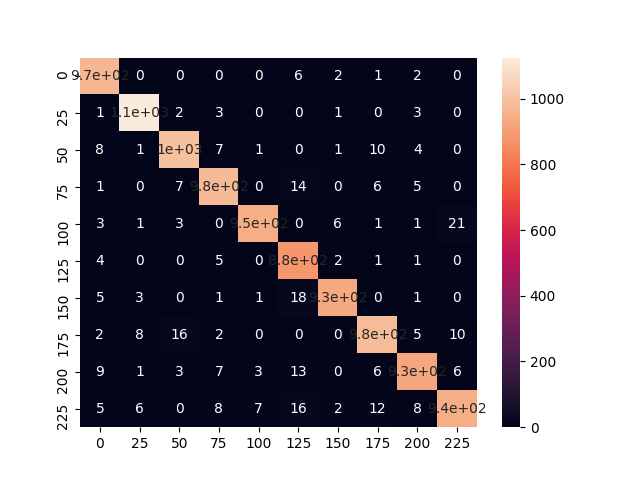
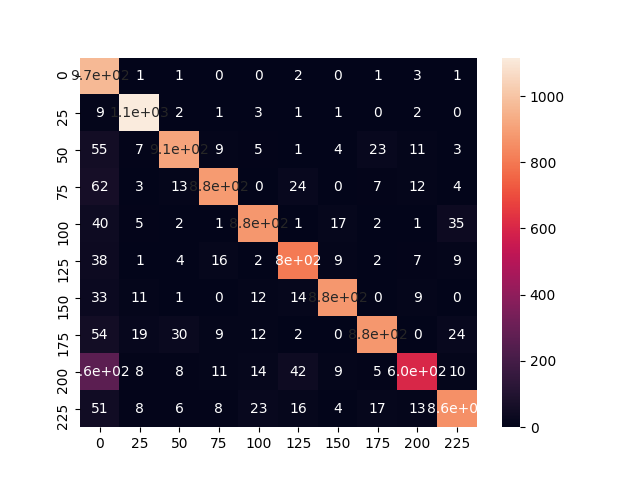
add bias, enlarge MNIST CNN

diff --git a/main.py b/main.py
@@ -26,7 +26,6 @@ import predict
 max_accuracy = 0
 min_loss = 1000
 
-
 def train(network, trainloader, opti, epoch, states, network_config, layers_config, err):
     global max_accuracy
     global min_loss
@@ -104,7 +103,8 @@ def train(network, trainloader, opti, epoch, states, network_config, layers_conf
         states.training.correctSamples = correct
         states.training.numSamples = total
         states.training.lossSum += loss.cpu().data.item() 
-        states.print(epoch, batch_idx, (datetime.now() - time).total_seconds())
+        states.print(epoch, batch_idx, (datetime.now() -\
+            time).total_seconds(), opti.param_groups[0]['lr'])
 
     total_accuracy = correct / total
     total_loss = train_loss / total
@@ -197,7 +197,7 @@ if __name__ == '__main__':
     
     # Check whether a GPU is available
     if torch.cuda.is_available():
-        device = 2 #torch.device("cuda")
+        device = 3#torch.device("cuda")
         cuda.init()
         c_device = aboutCudaDevices()
         print(c_device.info())
@@ -234,18 +234,22 @@ if __name__ == '__main__':
     
     error = loss_f.SpikeLoss(params['Network']).to(device)
     
-    optimizer = torch.optim.AdamW(net.get_parameters(), lr=params['Network']['lr'], betas=(0.9, 0.999))
-    
+    #optimizer = torch.optim.AdamW(net.get_parameters(), lr=params['Network']['lr'], betas=(0.9, 0.999))
+    optimizer = torch.optim.SGD(net.get_parameters(),\
+            lr=params['Network']['lr']*100, momentum=0.9, weight_decay=0.001)
     best_acc = 0
     best_epoch = 0
     
     l_states = learningStats()
     early_stopping = EarlyStopping()
-    
+    my_lr_scheduler =\
+        torch.optim.lr_scheduler.ExponentialLR(optimizer=optimizer,\
+        gamma=0.98)
     for e in range(params['Network']['epochs']):
         l_states.training.reset()
         train(net, train_loader, optimizer, e, l_states, params['Network'], params['Layers'], error)
         l_states.training.update()
+        my_lr_scheduler.step()
         l_states.testing.reset()
         test(net, test_loader, e, l_states, params['Network'], params['Layers'], early_stopping)
         l_states.testing.update()

diff --git a/layers/conv.py b/layers/conv.py
@@ -71,10 +71,11 @@ class ConvLayer(nn.Conv3d):
             raise Exception('dilation can be either int or tuple of size 2. It was: {}'.format(dilation.shape))
 
         super(ConvLayer, self).__init__(in_features, out_features, kernel, stride, padding, dilation, groups,
-                                        bias=False)
-        # nn.init.kaiming_normal_(self.weight)
+                                        bias=True)
+        nn.init.normal_(self.weight)
+        nn.init.zeros_(self.bias)
         self.weight = torch.nn.Parameter(weight_scale * self.weight, requires_grad=True)
-
+        self.bias = torch.nn.Parameter(weight_scale * self.bias, requires_grad=True)
         self.in_shape = in_shape
         self.out_shape = [out_features, int((in_shape[1]+2*padding[0]-kernel[0])/stride[0]+1),
                           int((in_shape[2]+2*padding[1]-kernel[1])/stride[1]+1)]
@@ -89,7 +90,7 @@ class ConvLayer(nn.Conv3d):
                         self.stride, self.padding, self.dilation, self.groups)
 
     def get_parameters(self):
-        return self.weight
+        return [self.weight, self.bias]
 
     def forward_pass(self, x, epoch):
         y = self.forward(x)
@@ -104,5 +105,8 @@ class ConvLayer(nn.Conv3d):
 
     def weight_clipper(self):
         w = self.weight.data
+        b = self.bias.data
         w = w.clamp(-4, 4)
+        b = b.clamp(-4, 4)
         self.weight.data = w
+        self.bias.data = b

diff --git a/utils.py b/utils.py
@@ -173,7 +173,7 @@ class learningStats():
         self.testing.update()
         self.testing.reset()
 
-    def print(self, epoch, iter=None, timeElapsed=None, header=None, footer=None):
+    def print(self, epoch, iter=None, timeElapsed=None, lr=None, header=None, footer=None):
         '''
         Prints the available learning statistics from the current session on the console.
         For Linux systems, prints the data on same terminal space (might not work properly on other systems).
@@ -205,6 +205,7 @@ class learningStats():
         epochStr = 'Epoch : %10d' % (epoch)
         iterStr = '' if iter is None else '(i = %7d)' % (iter)
         profileStr = '' if timeElapsed is None else ', %12.4f s elapsed' % timeElapsed
+        lrStr = '' if lr is None else '    LearningRate : %3.8f' % lr
         if glv.accuracy_stat_dict is None:
             accuracyStr = 'No Acc data.'
         else:
@@ -219,7 +220,7 @@ class learningStats():
                 print('\033[2K' + str(h))
                 self.linesPrinted += 1
 
-        print(epochStr + iterStr + profileStr)
+        print(epochStr + iterStr + profileStr + lrStr)
         print(self.training.displayString())
         print(self.testing.displayString())
         print(accuracyStr)

diff --git a/functions/TSSLBP.py b/functions/TSSLBP.py
@@ -109,19 +109,19 @@ class PSP_spike_large_batch(torch.autograd.Function):
 
         grad_a_surrogate = torch.einsum('...ij, ...j -> ...i', syn, grad_delta)
 
-        a = 0.2
+        a = 0.3
         f = torch.clamp((-1 * u + threshold) / a, -8, 8)
         sig = 1 / (1 + torch.exp(f))
         sig_grad = sig * (1 - sig) / a
         grad_a_surrogate = grad_a_surrogate * sig_grad
-        inter_u = 0.8 * ((1-outputs) - sig_grad * u)
+        inter_u = 0.8 * ((1-outputs))# - sig_grad * u)
        #        grad = grad_a_surrogate * sig_grad
         if torch.sum(outputs)/(shape[0] * shape[1] * shape[2] * shape[3] *\
                 shape[4]) > 0.1:
             grad = (grad_a_surrogate + grad * sig) * add_or_remove\
                     + grad * (1 - add_or_remove)
-            for t in range(shape[4]-2,-1,-1):
-                grad[..., t] += grad[..., t+1] * inter_u[..., t]
+            #for t in range(shape[4]-2,-1,-1):
+            #    grad[..., t] += grad[..., t+1] * inter_u[..., t]
         else:
             grad = grad_a_surrogate
         return grad, None, None, None, None, None, None, None, None

diff --git a/layers/linear.py b/layers/linear.py
@@ -36,10 +36,12 @@ class LinearLayer(nn.Linear):
         else:
             raise Exception('outFeatures should not be more than 1 dimesnion. It was: {}'.format(out_features.shape))
 
-        super(LinearLayer, self).__init__(n_inputs, n_outputs, bias=False)
+        super(LinearLayer, self).__init__(n_inputs, n_outputs, bias=True)
 
-        nn.init.kaiming_normal_(self.weight)
+        nn.init.normal_(self.weight)
+        nn.init.zeros_(self.bias)
         self.weight = torch.nn.Parameter(weight_scale * self.weight, requires_grad=True)
+        self.bias = torch.nn.Parameter(weight_scale * self.bias, requires_grad=True)
         
         print("linear")
         print(self.name)
@@ -70,9 +72,12 @@ class LinearLayer(nn.Linear):
         return y
 
     def get_parameters(self):
-        return self.weight
+        return [self.weight, self.bias]
 
     def weight_clipper(self):
         w = self.weight.data
+        b = self.bias.data
         w = w.clamp(-4, 4)
+        b = b.clamp(-4, 4)
         self.weight.data = w
+        self.bias.data = b

diff --git a/cnns.py b/cnns.py
@@ -22,12 +22,12 @@ class Network(nn.Module):
                 self.layers.append(conv.ConvLayer(network_config, c, key, input_shape))
                 self.layers[-1].to(glv.device)
                 input_shape = self.layers[-1].out_shape
-                parameters.append(self.layers[-1].get_parameters())
+                parameters += self.layers[-1].get_parameters()
             elif c['type'] == 'linear':
                 self.layers.append(linear.LinearLayer(network_config, c, key, input_shape))
                 self.layers[-1].to(glv.device)
                 input_shape = self.layers[-1].out_shape
-                parameters.append(self.layers[-1].get_parameters())
+                parameters += self.layers[-1].get_parameters()
             elif c['type'] == 'pooling':
                 self.layers.append(pooling.PoolLayer(network_config, c, key, input_shape))
                 self.layers[-1].to(glv.device)

diff --git a/predict.py b/predict.py
@@ -15,7 +15,7 @@ def Pattern_change_predict(outputs, u, k):
     if k not in glv.dims_dict:
         glv.dims_dict[k] = torch.tensor(list(range(neuron_num)), device = glv.device)
     dim1 = glv.dims_dict[k]
-    near_by = flip_dist[dim1, min_index] < 1 # Hard threshold guess change
+    near_by = flip_dist[dim1, min_index] < 2.0 # Hard threshold guess change
     while near_by.any() == True:
         new_output[dim1, min_index] = new_output[dim1, min_index] ^ near_by
         near_by = near_by & (min_index != time_steps - 1)
